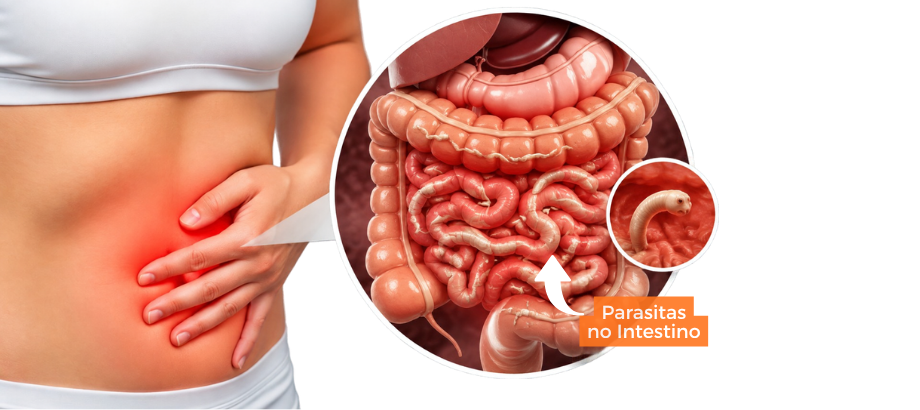
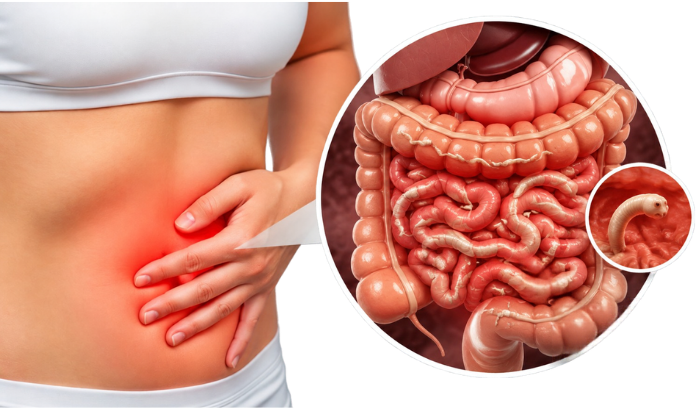
Hero: usa a nova imagem do intestino enviada (sem texto/seta) e reposiciona rotulo e seta

diff --git a/index.html b/index.html
@@ -508,13 +508,13 @@ html,body{overflow-x:clip}
 /* hero: imagem do intestino flutuando na base, em largura total; video sempre centralizado */
 .hero-art{display:none}
 @media(min-width:1100px){
-  .hero-art{display:block;position:absolute;left:-7vw;bottom:10px;width:min(50vw,900px);z-index:1;pointer-events:none;animation:heroFloat 6s ease-in-out infinite}
+  .hero-art{display:block;position:absolute;left:-11vw;bottom:14px;width:min(40vw,680px);z-index:1;pointer-events:none;animation:heroFloat 6s ease-in-out infinite}
   .hero-art img{display:block;width:100%;height:auto;
-    -webkit-mask-image:linear-gradient(90deg,transparent 0,#000 12%,#000 78%,transparent 100%),linear-gradient(180deg,transparent 0,#000 16%,#000 84%,transparent 100%);
-    -webkit-mask-composite:source-in;mask-image:linear-gradient(90deg,transparent 0,#000 12%,#000 78%,transparent 100%),linear-gradient(180deg,transparent 0,#000 16%,#000 84%,transparent 100%);mask-composite:intersect;
+    -webkit-mask-image:linear-gradient(90deg,transparent 0,#000 14%,#000 97%,transparent 100%),linear-gradient(180deg,transparent 0,#000 16%,#000 84%,transparent 100%);
+    -webkit-mask-composite:source-in;mask-image:linear-gradient(90deg,transparent 0,#000 14%,#000 97%,transparent 100%),linear-gradient(180deg,transparent 0,#000 16%,#000 84%,transparent 100%);mask-composite:intersect;
     filter:drop-shadow(0 24px 44px rgba(217,83,44,.22))}
-  .hc-label{position:absolute;left:63%;top:73%;background:#ff7a1f;color:#fff;font:600 clamp(13px,1.35vw,20px)/1.15 var(--font);padding:.5em .8em;border-radius:6px;box-shadow:0 10px 24px rgba(217,83,44,.4);animation:hcBob 4.2s ease-in-out infinite}
-  .hc-arrow{position:absolute;left:55%;top:61%;width:clamp(34px,4.6vw,66px);height:auto;filter:drop-shadow(0 4px 8px rgba(0,0,0,.3));animation:hcNudge 2.6s ease-in-out infinite}
+  .hc-label{position:absolute;left:66%;top:79%;background:#ff7a1f;color:#fff;font:600 clamp(13px,1.35vw,20px)/1.15 var(--font);padding:.5em .8em;border-radius:6px;box-shadow:0 10px 24px rgba(217,83,44,.4);animation:hcBob 4.2s ease-in-out infinite}
+  .hc-arrow{position:absolute;left:59%;top:65%;width:clamp(34px,4.6vw,66px);height:auto;filter:drop-shadow(0 4px 8px rgba(0,0,0,.3));animation:hcNudge 2.6s ease-in-out infinite}
   .hero>.wrap{position:relative;z-index:2}
 }
 @keyframes heroFloat{0%,100%{transform:translateY(0)}50%{transform:translateY(-14px)}}
@@ -617,7 +617,7 @@ img,video,svg{max-width:100%}
 <main id="topo">
 
 <!-- 1. HERO + VSL -->
-<section class="hero"><div class="hero-art" aria-hidden="true"><img src="imgs/secoes/intestino-parasitas.png" alt="" width="920" height="410" loading="eager"><span class="hc-label">Parasitas<br>no Intestino</span><svg class="hc-arrow" viewBox="0 0 64 70" fill="none" stroke="#fff" stroke-width="7" stroke-linecap="round" stroke-linejoin="round" aria-hidden="true"><path d="M10 62C8 40 24 24 46 22"/><path d="M33 8l15 14-17 12"/></svg></div>
+<section class="hero"><div class="hero-art" aria-hidden="true"><img src="imgs/secoes/intestino-parasitas.png" alt="" width="700" height="410" loading="eager"><span class="hc-label">Parasitas<br>no Intestino</span><svg class="hc-arrow" viewBox="0 0 64 70" fill="none" stroke="#fff" stroke-width="7" stroke-linecap="round" stroke-linejoin="round" aria-hidden="true"><path d="M10 62C8 40 24 24 46 22"/><path d="M33 8l15 14-17 12"/></svg></div>
 <div class="wrap">
   <span class="eyebrow center">Método Desparasitação Descomplicada</span>
   <h1>Organizando o cuidado com o seu intestino, <b>com segurança e passo a passo</b></h1>
